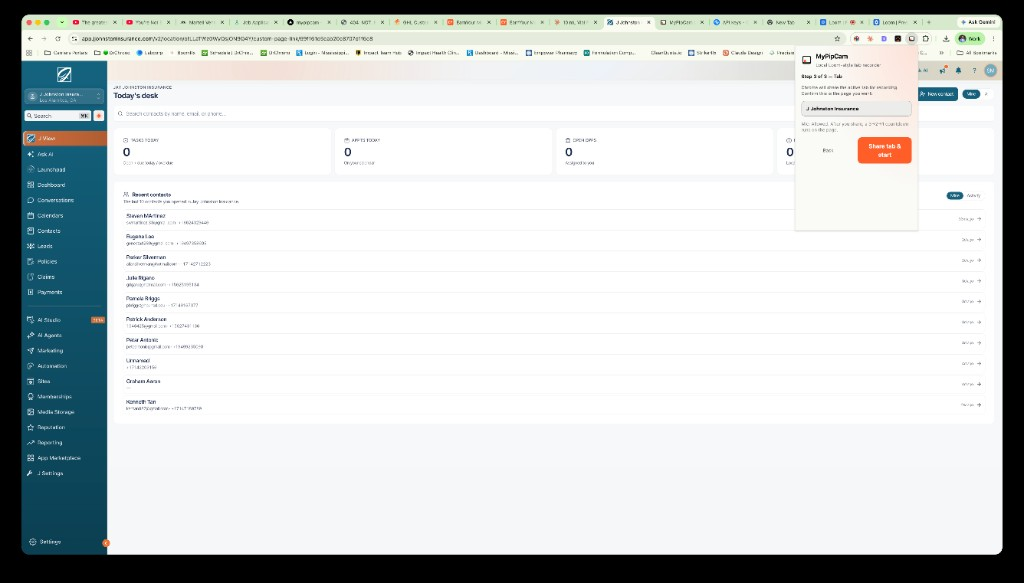
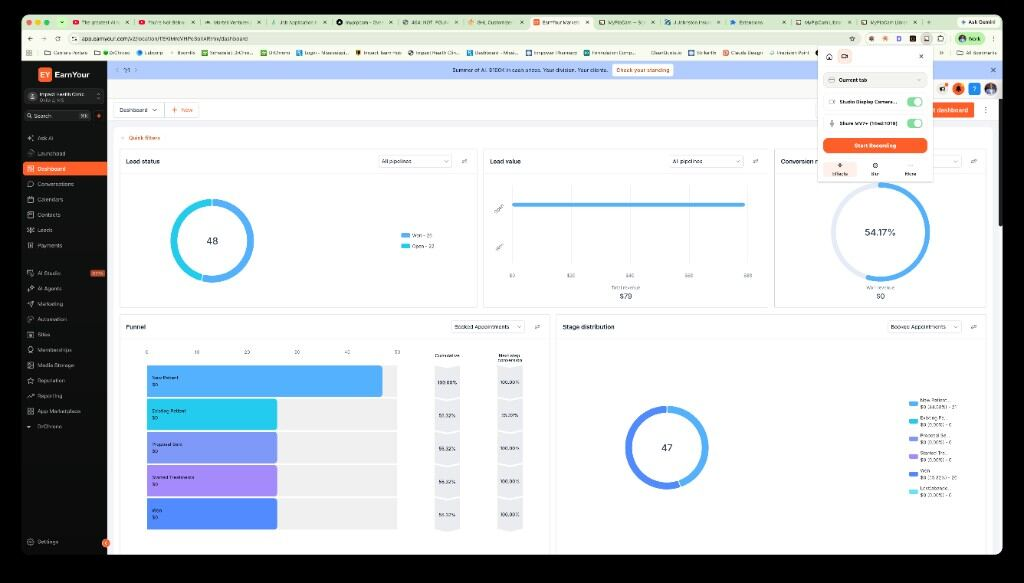
Replace Johnston Insurance popup screenshot with EarnYour dashboard.
Keeps the marketing funnel screenshots on-brand with app.earnyour.com.

diff --git a/apps/web/index.html b/apps/web/index.html
@@ -287,9 +287,9 @@
                 width="1200"
                 height="750"
                 loading="lazy"
-                alt="MyPipCam extension popup ready to share a Chrome tab and start recording"
+                alt="MyPipCam extension popup on the EarnYour dashboard, ready to start recording"
               />
-              <figcaption>Popup — share tab &amp; start</figcaption>
+              <figcaption>Popup — Start Recording on EarnYour</figcaption>
             </figure>
             <figure class="shot">
               <img
